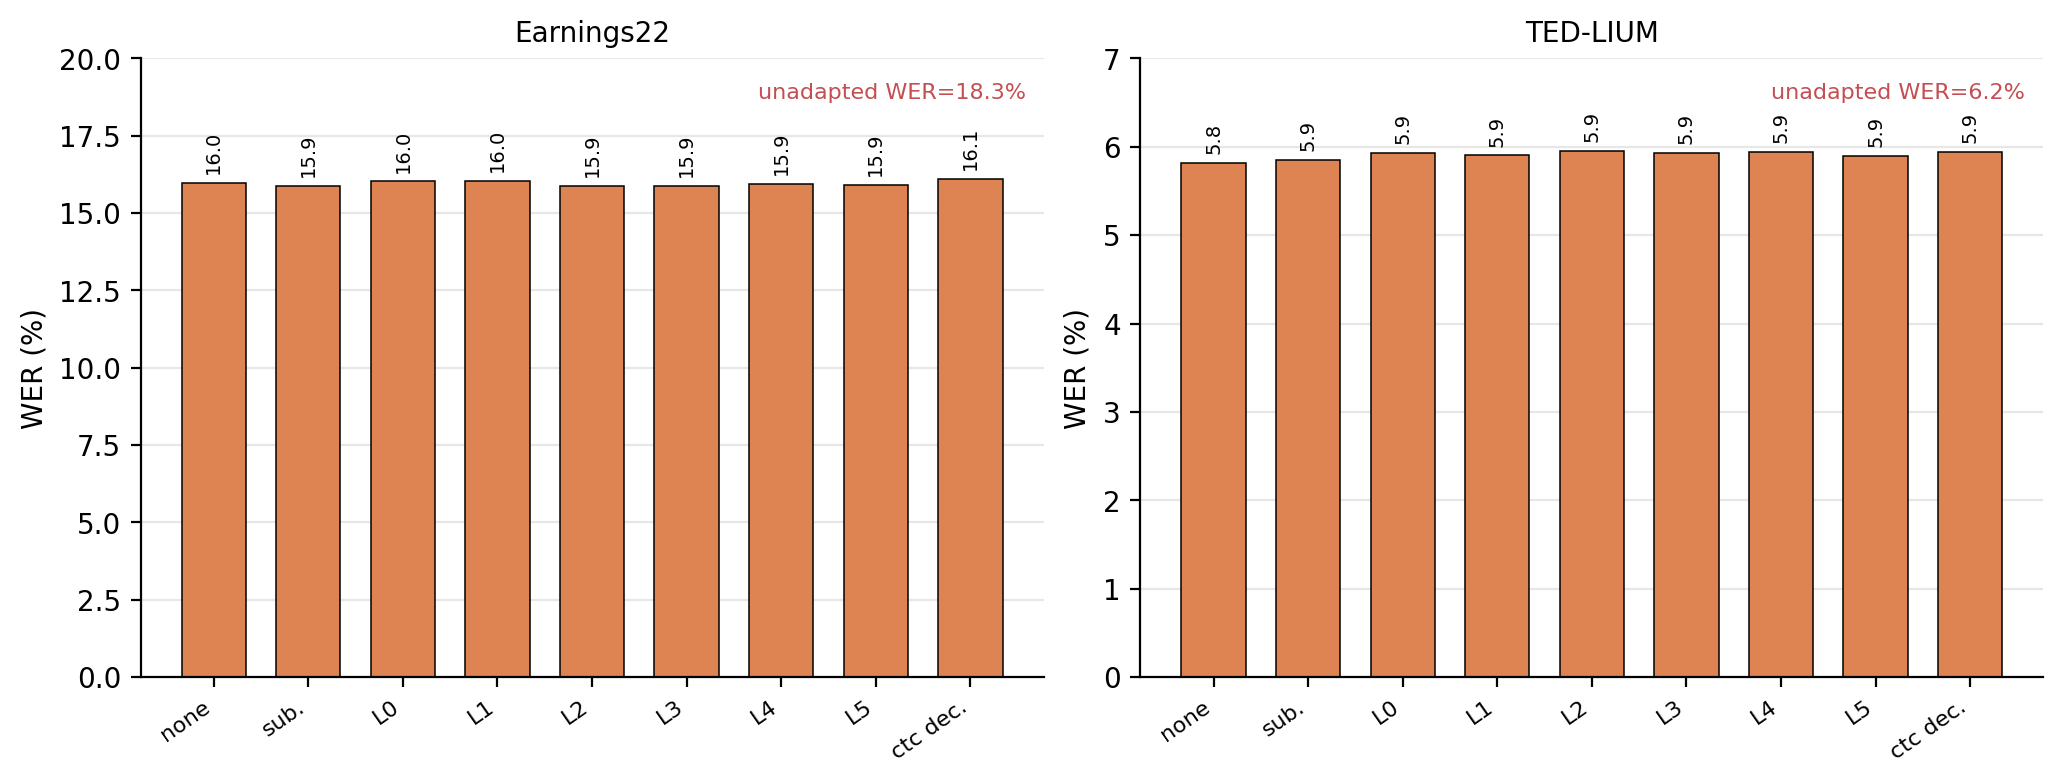
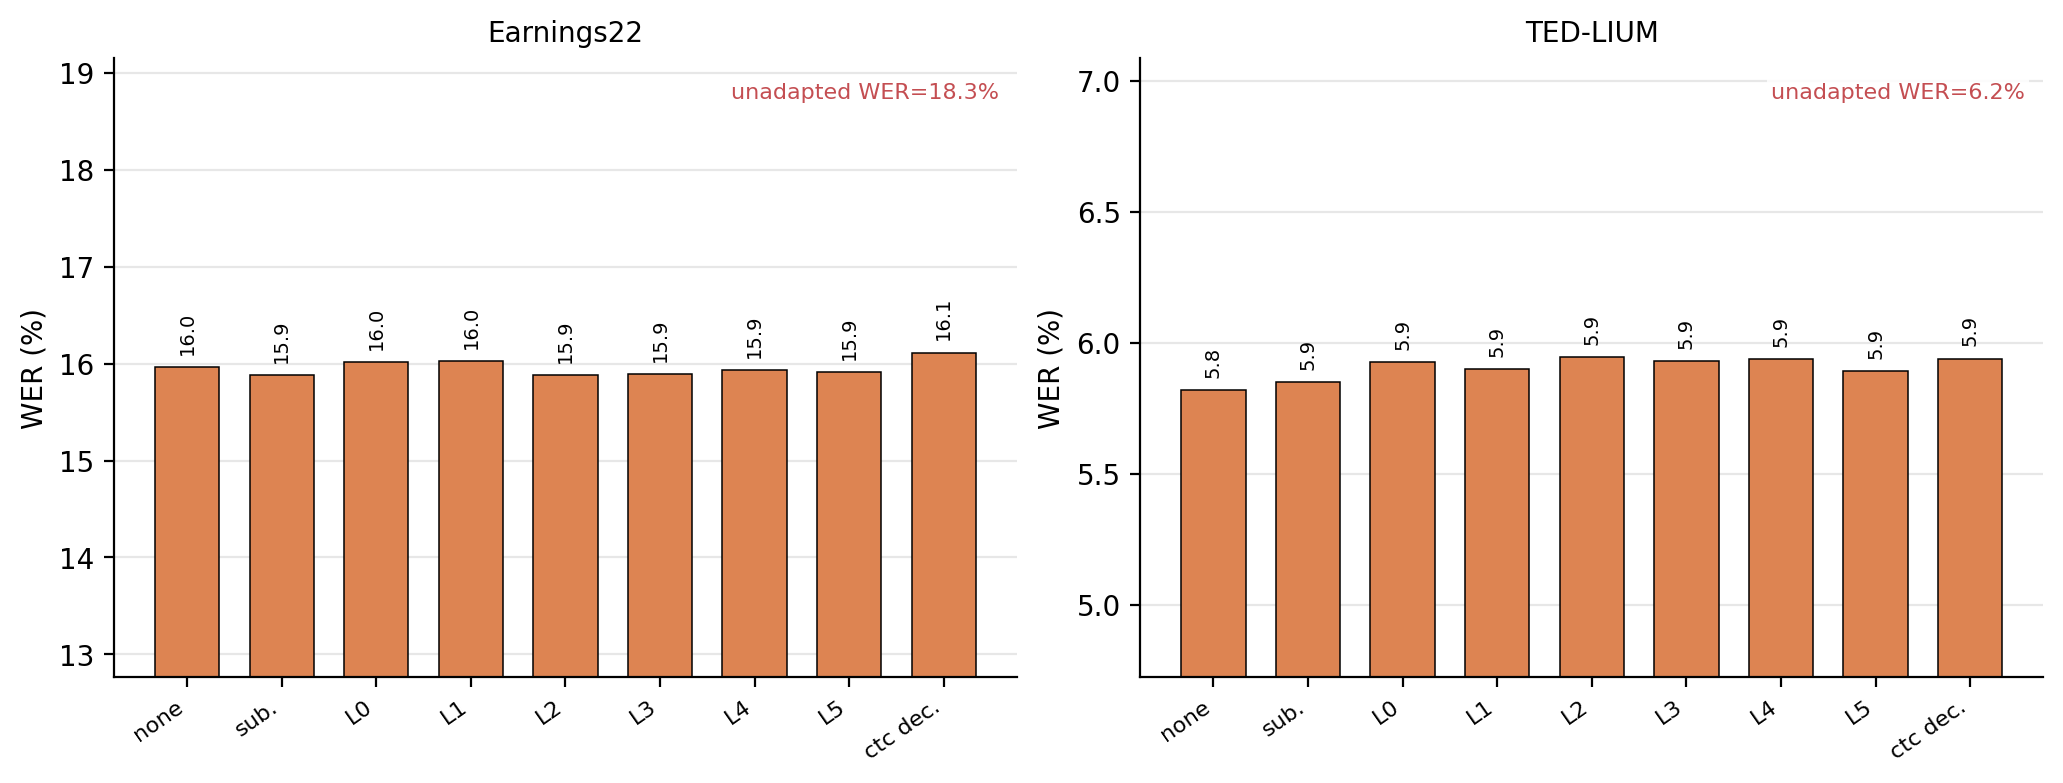
Adjust layer-drop figure y-axis scale

diff --git a/exp/results/repro/selftrain_layer_drop_axis/plot_layer_drop_larger_axis.py b/exp/results/repro/selftrain_layer_drop_axis/plot_layer_drop_larger_axis.py
@@ -5,7 +5,6 @@ from __future__ import annotations
 
 import argparse
 import csv
-import math
 from pathlib import Path
 
 import matplotlib.pyplot as plt
@@ -87,11 +86,9 @@ def load_rows(source_csv: Path) -> list[dict[str, str]]:
     return [row for row in rows if row.get("wer") and not row.get("error")]
 
 
-def rounded_axis_top(values: list[float], dataset: str) -> float:
-    max_value = max(values + [BASELINE_WER[dataset] * 100.0])
-    if max_value <= 10.0:
-        return math.ceil(max_value * 1.05)
-    return math.ceil(max_value * 1.05 / 5.0) * 5.0
+def mean_relative_axis_limits(values: list[float]) -> tuple[float, float]:
+    mean_value = float(np.mean(values))
+    return mean_value * 0.8, mean_value * 1.2
 
 
 def render(source_csv: Path, output_pdf: Path, output_png: Path | None) -> None:
@@ -124,8 +121,8 @@ def render(source_csv: Path, output_pdf: Path, output_png: Path | None) -> None:
             label="lr=9e-5",
         )
 
-        axis_top = rounded_axis_top(values, dataset)
-        label_offset = axis_top * 0.015
+        axis_bottom, axis_top = mean_relative_axis_limits(values)
+        label_offset = (axis_top - axis_bottom) * 0.02
         for bar, value in zip(bars, values):
             ax.text(
                 bar.get_x() + bar.get_width() / 2,
@@ -150,7 +147,7 @@ def render(source_csv: Path, output_pdf: Path, output_png: Path | None) -> None:
             bbox={"facecolor": "white", "edgecolor": "none", "alpha": 0.85, "pad": 1.5},
         )
 
-        ax.set_ylim(0.0, axis_top)
+        ax.set_ylim(axis_bottom, axis_top)
         ax.set_title(DATASET_TITLES[dataset], fontsize=10)
         ax.set_xticks(x)
         ax.set_xticklabels(

diff --git a/exp/results/repro/selftrain_layer_drop_axis/README.md b/exp/results/repro/selftrain_layer_drop_axis/README.md
@@ -10,13 +10,14 @@ summary from the dynamic ASR evaluation result tree:
 
 The committed CSV copies only the `layer_drop_lr_sweep`, `lr=9e-5` rows used by
 the figure. The regenerated plot keeps the existing bar order, labels, WER
-values, and unadapted-WER text annotation, but uses zero-based WER axes:
+values, and unadapted-WER text annotation, but uses y-axes set to plus/minus
+20% relative to the average plotted WER in each dataset panel:
 
-- Earnings22: `0%` to `20%`
-- TED-LIUM: `0%` to `7%`
+- Earnings22: `12.8%` to `19.2%`
+- TED-LIUM: `4.7%` to `7.1%`
 
-These wider axes avoid visually overstating sub-percent WER differences while
-preserving the figure intent.
+These wider axes reduce the visual amplification of sub-percent WER differences
+without flattening the comparison as much as a zero-based axis.
 
 Regeneration command:
 

diff --git a/exp/results/repro/selftrain_layer_drop_axis/OUTCOME.md b/exp/results/repro/selftrain_layer_drop_axis/OUTCOME.md
@@ -1,7 +1,8 @@
 # ROB-144 Outcome
 
 Regenerated `fig:selftrain:layer-drop` with the same source data and figure
-content, but with wider WER axes that start at zero.
+content, but with wider WER axes set to plus/minus 20% relative to the average
+plotted WER in each dataset panel.
 
 Artifacts:
 
@@ -18,8 +19,8 @@ The source data came from:
 
 The figure uses:
 
-- Earnings22 y-axis: `0%` to `20%`.
-- TED-LIUM y-axis: `0%` to `7%`.
+- Earnings22 y-axis: `12.8%` to `19.2%`.
+- TED-LIUM y-axis: `4.7%` to `7.1%`.
 
 Validation:
 

diff --git a/RESEARCH_DIARY.md b/RESEARCH_DIARY.md
@@ -224,5 +224,5 @@ reproduce results, interpret metrics, or avoid known failure modes.
   `fig:selftrain:layer-drop` under
   `exp/results/repro/selftrain_layer_drop_axis/`. The source rows are copied
   from the existing dynamic-ASR `ctc_self_training_extra_ablation_sweeps`
-  summary, and the new plot keeps the same bars and labels while using wider,
-  zero-based WER axes.
+  summary, and the new plot keeps the same bars and labels while using axes set
+  to plus/minus 20% around each dataset panel's average WER.